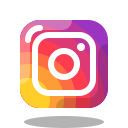
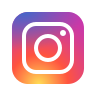
The complete page without the login form

diff --git a/index.html b/index.html
@@ -15,7 +15,7 @@
         <div class="container">
             <div class="navbar">
                 <div class="logo">
-                    <a href="index.html"><img src="logo.png" width="160px"></a>
+                    <a href="index.html"><img src="logo-91.png" width="160px"></a>
                     </div>
                     <nav>                                              
                         <ul id="menuItems">                            
@@ -24,8 +24,8 @@
                             <li><a href="about">About Us</a></li>
                         </ul>
                     </nav>
-                    <a href="cart.html"><img src="images/cart.png" width="30px" height="30px"></a>
-                    <img src="images/menu.png" class="menu-icon" onclick="menutoggle()">
+                    <a href=""><img src="shopping-cart.png" width="30px" height="30px"></a>
+                    <img src="menu-rounded.png" width="30px" height="30px" class="menu-icon" onclick="menutoggle()">
                 </div>
                 <div class="row">
                     <div class="col-2">
@@ -120,12 +120,12 @@
                         <h3>App coming soon...</h3>
                         <p>Android and Iphone app coming soon</p>
                         <div class="app-logo">
-                            <img src="images/play-store.png">
-                            <img src="images/app-store.png">
+                            <img src="hand-with-smartphone.png">
+                            
                         </div>
                     </div>
                     <div class="footer-col-2">
-                        <img src="images/logo-white.png">
+                        <img src="logo.png">
                         <p>Get notifications when we launch new products</p>
                     </div>
                     <div class="footer-col-3">
@@ -139,16 +139,16 @@
                     </div>
                     <div class="footer-col-4">
                         <h3>Follow us on our socials</h3>
-                        <ul>
-                            <li><img src="google-logo.png">Facebook</li>
-                            <li><img src="twitter.png">Twitter</li>
-                            <li><img src="facebook-new.png">Instagram</li>
-                            <li><img src="facebook-new.png">YouTube</li>
-                        </ul>
+                            <div>
+                            <img src="google-logo.png">
+                            <img src="youtube-play.png" >
+                            <img src="instagram-new.png" >
+                            <img src="facebook-new.png" >
+                            </div>
                     </div>
                 </div>
                 <hr>
-                <p class="copyright">Copyright 2023 - Powered by rigzLion8</p>
+                <p class="copyright">Copyright 2023 - Powered by BabaMboga</p>
 
 <!---------------js for menu toggle--------------->
 

diff --git a/style.css b/style.css
@@ -248,7 +248,7 @@ ul {
 .menu-icon {
     width: 28px;
     margin-left: 20px;
-    display: none;
+    display: block;
 }
 
 @media only screen and (max-width: 800px) {
@@ -474,6 +474,10 @@ form a {
     margin-top: 8px;
     transform: translateX(100px);
     transition: transform 1s;
+}
+.social-icons{
+    margin:30px auto;
+    text-align: center;
 }
 
 
